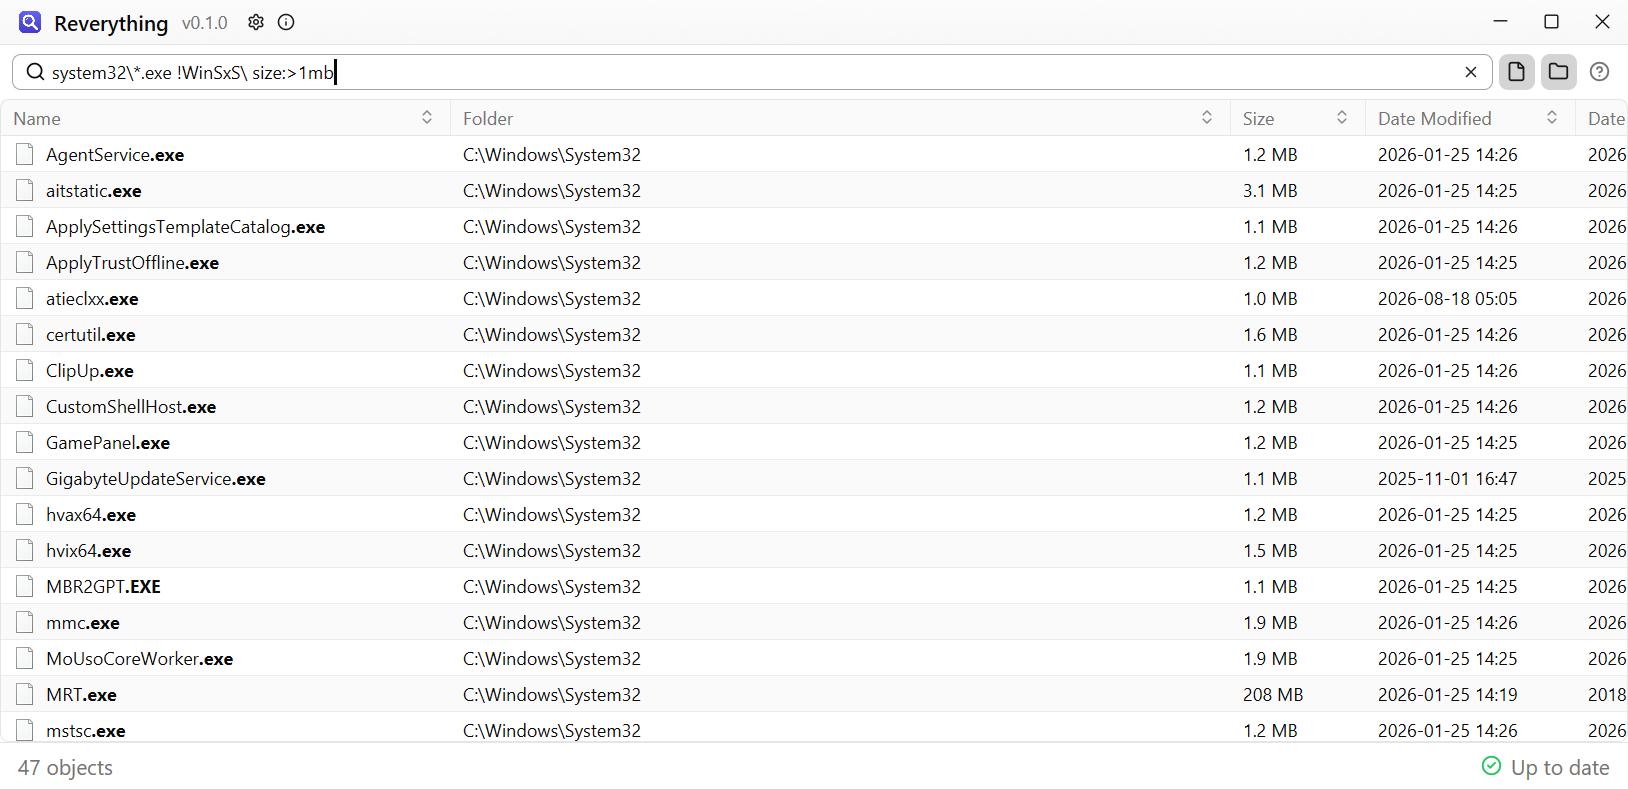
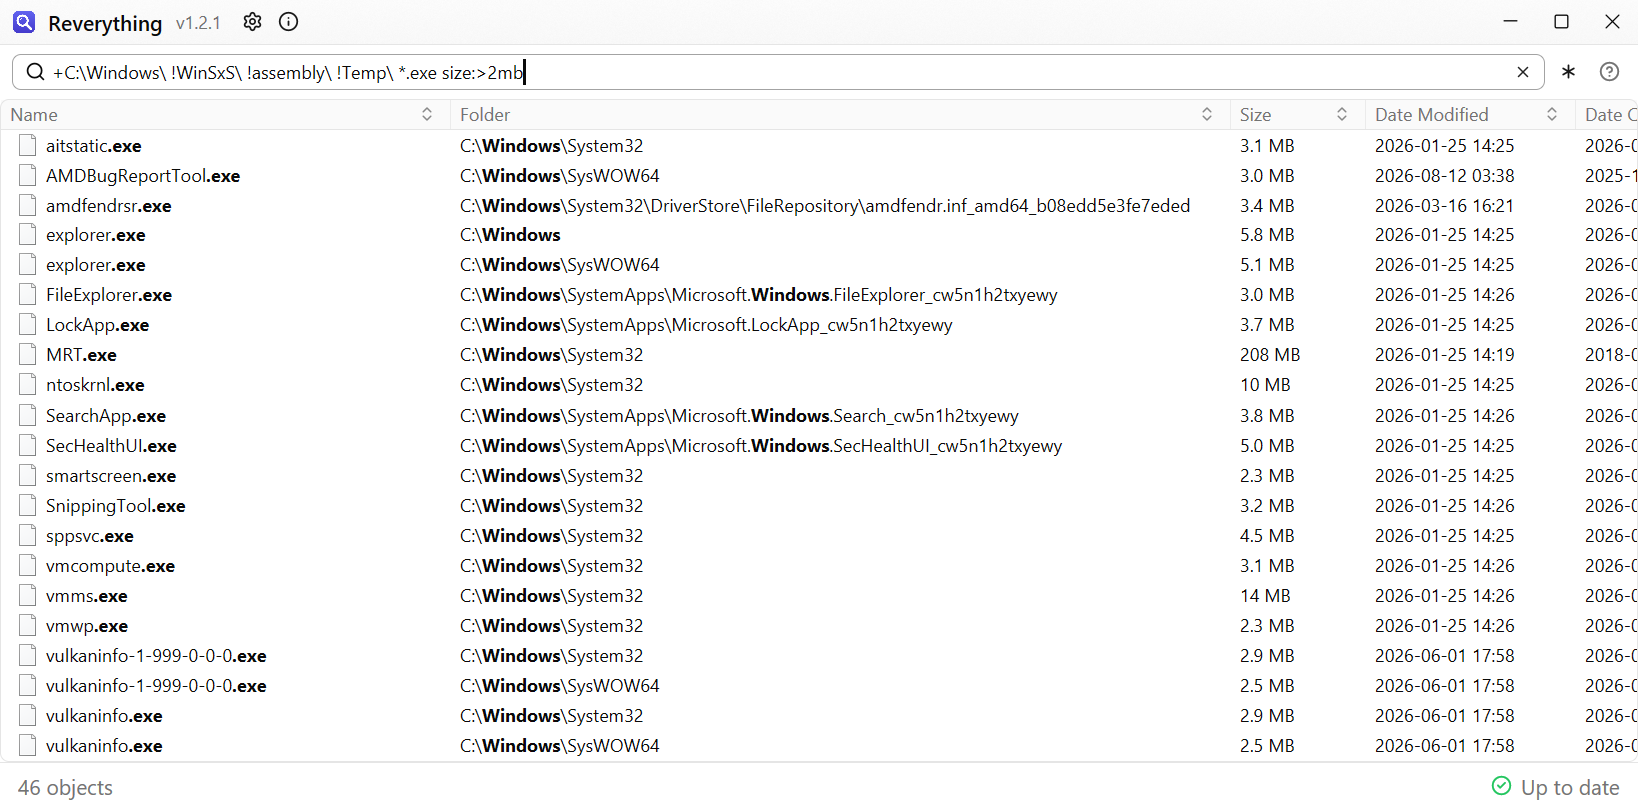
Update the screenshot to v1.2.1 with a + folder search

Changed region(s): [[0.0, 0.0, 1.0, 1.0], [0.7371, 0.1217, 0.7985, 0.943]]

diff --git a/README.md b/README.md
@@ -3,7 +3,7 @@ Find any file on your PC by name, instantly. Reverything is a fast file name sea
 [Everything](https://www.voidtools.com/): it reads the file table of your NTFS drives directly, so millions of files
 are indexed in seconds, and results appear as you type.
 
-![Reverything searching for programs larger than 1 MB in System32, without WinSxS](assets/screenshot.png)
+![Reverything searching for programs larger than 2 MB anywhere below C:\Windows, without WinSxS, assembly and Temp](assets/screenshot.png)
 
 - Search as you type, with wildcards (`*.mp3`), folders (`photos\2024`, `+C:\code\`), exclusions
   (`!node_modules\`) and size or date filters (`size:>1gb`, `dm:today`). Hover the `?` next to the search box for a short overview.
